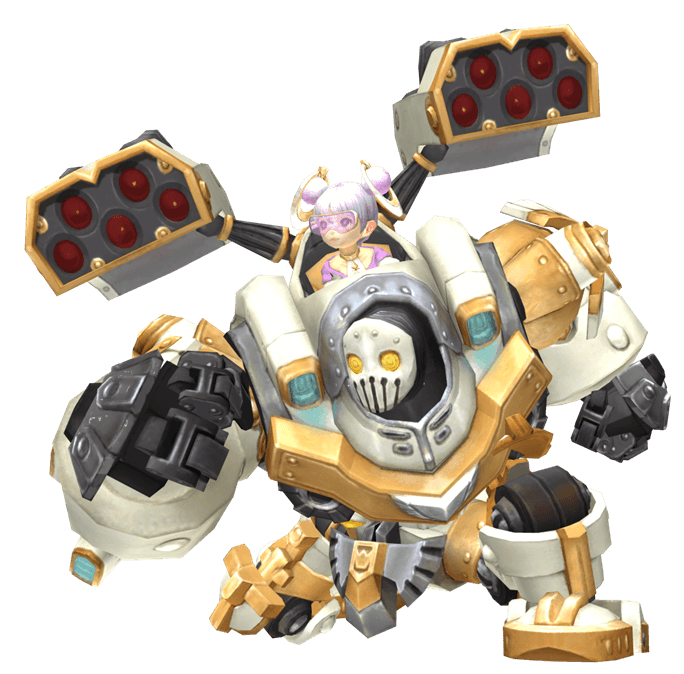
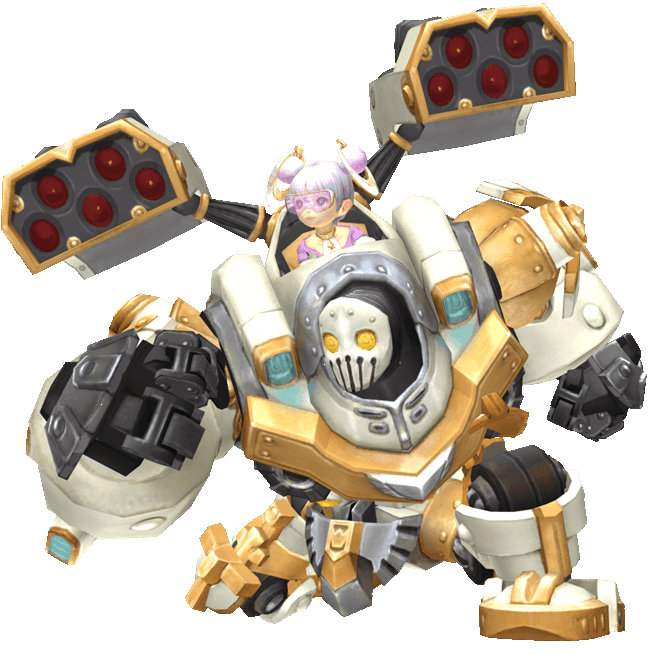
fix to header and front image

diff --git a/public/js/templates.min.js b/public/js/templates.min.js
@@ -1,10 +1,10 @@
 angular.module('templates').run(['$templateCache', function($templateCache) {$templateCache.put('ui/build/create.html','<dnsim-loading>\n    <dnsim-choose-class job="ctrl.job" on-set-job="ctrl.setJob()"></dnsim-choose-class>\n</dnsim-loading>');
 $templateCache.put('ui/build/view-build.html','  <div class="col-xs-11 col-sm-3 col-lg-2" ng-if="ctrl.build">\n    <div class="row chunkyness" style="color: rgb(233,231,224);font-size:15.6px;width:190px;height:160px">\n       <div class="col-xs-3" style="border:0.5px dotted" ng-repeat="num in ctrl.baseSkillNums track by $index">\n         <span ng-if="!(num > 0)">&nbsp;</span>{{num}}\n        </div>\n    </div>\n    <br />\n  </div>\n  <div class="col-xs-1">&nbsp;</div>\n  <div class="col-xs-11 col-sm-3 col-lg-2" ng-if="ctrl.build">\n    <div class="row chunkyness" style="color: rgb(233,231,224);font-size:15.6px;width:190px;height:160px">\n       <div class="col-xs-3" style="border:0.5px dotted" ng-repeat="num in ctrl.specSkillNums track by $index">\n         <span ng-if="!(num > 0)">&nbsp;</span>{{num}}\n        </div>\n    </div>\n    <br />\n  </div>\n  <div class="col-xs-11 col-lg-1">&nbsp;</div>\n  <div class="col-xs-11 col-sm-3 col-lg-2" ng-if="ctrl.build">\n    <div class="row chunkyness" style="color: rgb(233,231,224);font-size:15.6px;width:190px;height:160px">\n       <div class="col-xs-3" style="border:0.5px dotted" ng-repeat="num in ctrl.finalSkillNums track by $index">\n         <span ng-if="!(num > 0)">&nbsp;</span>{{num}}\n        </div>\n    </div>\n  </div>\n  <div class="col-xs-12 col-sm-1">&nbsp;</div>\n  <div class="col-xs-11 col-sm-3 col-lg-2" ng-if="ctrl.build">\n    <div class="row chunkyness" style="color: rgb(233,231,224);font-size:15.6px;width:190px;height:160px">\n       <div class="col-xs-3" style="border:0.5px dotted" ng-repeat="num in ctrl.awakenSkillNums track by $index">\n         <span ng-if="!(num > 0)">&nbsp;</span>{{num}}\n        </div>\n    </div>\n  </div>');
-$templateCache.put('ui/home/home.html','<div class="col-md-12"><div class="panel-body text-left">\n\n<h1>dragon nest skill simulator</h1>\n<p>\n  This is a multi-region skill simulator for the game Dragon Nest.\n</p>\n<p>\n  Use the toggles in the top right to change regions.\n</p>\n\n<div style="background: url(//spacem.github.io/dnskillsim/public/images/ray_mechanic.png) no-repeat top; height: 100vh; width: 100%; background-size:cover">\n\n</div></div>');
+$templateCache.put('ui/home/home.html','<div class="panel-body text-left">\n\n<h1>dragon nest skill simulator</h1>\n<p>\n  This is a multi-region skill simulator for the game Dragon Nest.\n</p>\n<p>\n  Use the toggles in the top right to change regions.\n</p>\n\n<div style="background: url(//spacem.github.io/dnskillsim/public/images/ray_mechanic.png) no-repeat left top; height: 100vh; width: 100vw; background-size:contain;margin:-30px">\n\n</div>\n</div>');
 $templateCache.put('ui/menus/build-menu.html','<ul class="nav nav-tabs">\n    <li class="nav-tab">\n        <a href="//spacem.github.io/dnskillsim/create?region={{ctrl.getRegion()}}">\n        <span class="glyphicon glyphicon-retweet" aria-hidden="true">\n        </span>\n        &nbsp; change class\n        </a>\n    </li>\n    <li class="nav-tab">\n        <a href="//spacem.github.io/dnskillsim/build-search?region={{ctrl.getRegion()}}">\n        <span class="glyphicon glyphicon-search" aria-hidden="true">\n        </span>\n        &nbsp;find skill builds\n        </a>\n    </li>\n    <li class="nav-tab">\n        <a ng-click="ctrl.publishBuild()" href="#">\n        <span class="glyphicon glyphicon-log-in" aria-hidden="true">\n        </span>\n        &nbsp;publish this build\n        </a>\n    </li>\n</ul>');
 $templateCache.put('ui/menus/home-menu.html','<ul class="nav nav-tabs">\n    <li class="nav-tab">\n        <a ng-href="create">\n        <span class="glyphicon glyphicon-retweet" aria-hidden="true">\n        </span>\n        &nbsp; create build\n        </a>\n    </li>\n    <li class="nav-tab">\n        <a ng-href="build-search">\n        <span class="glyphicon glyphicon-search" aria-hidden="true">\n        </span>\n        &nbsp;find skill builds\n        </a>\n    </li>\n    <li class="nav-tab">\n        <a ng-href="publish">\n        <span class="glyphicon glyphicon-log-in" aria-hidden="true">\n        </span>\n        &nbsp;manage published builds\n        </a>\n    </li>\n</ul>');
 $templateCache.put('ui/menus/legacy-menu.html','<ul class="nav nav-tabs">\n    <li class="nav-tab">\n        <a href="//spacem.github.io/dnskillsim/create?region={{ctrl.getRegion()}}">\n        <span class="glyphicon glyphicon-retweet" aria-hidden="true">\n        </span>\n        &nbsp; create build\n        </a>\n    </li>\n    <li class="nav-tab">\n        <a href="//spacem.github.io/dnskillsim/build-search?region={{ctrl.getRegion()}}">\n        <span class="glyphicon glyphicon-search" aria-hidden="true">\n        </span>\n        &nbsp;find skill builds\n        </a>\n    </li>\n    <li class="nav-tab">\n        <a href="//spacem.github.io/dnskillsim/publish">\n        <span class="glyphicon glyphicon-log-in" aria-hidden="true">\n        </span>\n        &nbsp;manage published builds\n        </a>\n    </li>\n</ul>\n');
-$templateCache.put('ui/nav/header.html','<header>\n  <div class="container-fluid chunkyness" id="head">\n    <div class="container">\n      <a href="https://spacem.github.io/dnskillsim"><span class="logo-image">&nbsp;</span></a>\n    <div class="toggle-box row">\n      <div class="col-xs-12">\n        <h3 class="header-title text-right">\n          <small class="hidden-xs">\n            &nbsp;\n            dragon nest skill simulator\n            &nbsp;\n          </small>\n          <dngearsim-region ng-controller="RegionCtrl as ctrl">\n          </dngearsim-region>\n        </h3>\n        </div>\n    </div></div>\n</div>\n</header>');
+$templateCache.put('ui/nav/header.html','<header>\n  <div class="container-fluid chunkyness" id="head">\n    <div class="container">\n    <a href="https://spacem.github.io/dnskillsim"><span class="logo-image">&nbsp;</span></a>\n    <div class="toggle-box row">\n      <div class="col-xs-12">\n        <div class="header-title text-right">\n          <h1 class="hidden-xs header-title">\n            &nbsp;\n            dragon nest skill simulator\n            &nbsp;\n          </h1>\n          <dngearsim-region ng-controller="RegionCtrl as ctrl">\n          </dngearsim-region>\n        </div>\n      </div>\n    </div>\n  </div>\n</div>\n</header>');
 $templateCache.put('ui/online/build-search.html','<dnsim-loading>\n<dnsim-choose-class ng-show="!ctrl.job" job="ctrl.job" on-set-job="ctrl.setJob()"></dnsim-choose-class>\n\n<h3 ng-if="ctrl.job">{{ctrl.job.name}} builds\n  <small>\n    <button class="btn btn-link" ng-click="ctrl.job = null">\n      &raquo;change class\n    </button>\n  </small>\n</h3>\n<span ng-if="ctrl.job && !ctrl.jobBuilds">loading..</span>\n\n<p ng-if="ctrl.job && ctrl.jobBuilds">\n<label>filter</label>\n<input class="form-control" ng-model="ctrl.filter"></input>\n</p>\n\n<div class="container-fluid" ng-if="ctrl.job && ctrl.jobBuilds">\n  <div class="row" infinite-scroll="ctrl.showMoreResults()">\n    <div class="col-xs-12 col-md-6" ng-repeat="build in ctrl.getFilteredBuilds() track by $index">\n    <a class="list-group-item" ng-href="published/?uid={{build.uid}}&buildName={{build.name | escape}}">\n      <div>\n      <h4>\n        {{build.name}}\n        <small>\n          <span ng-if="build.data.guild">\n            [{{build.data.guild}}]\n          </span>\n          {{build.data.region}}\n        </small>\n      </h4>\n      <em>\n      {{build.data.about}}\n      </em>\n      </div>\n    </a>\n    </div>\n  </div>\n</div>\n<div class="row" ng-show="ctrl.totalNumResults >= ctrl.maxDisplay">\n  <div class="col-xs-1"></div>\n  <div class="col-xs-11">\n    <button class="btn btn-link" ng-click="ctrl.showMoreResults(20)">show more</button> | \n    <button class="btn btn-link" ng-click="ctrl.showMoreResults(200)">show lots more</button>\n  </div>\n</div>\n</dnsim-loading>');
 $templateCache.put('ui/online/profile.html','<dnsim-loading>\n  <div class="row">\n    <div class="col-xs-12" ng-if="ctrl.profile">\n      <h3>viewing builds for:<small> {{ctrl.profile.name || \'unnamed user\'}}</small>\n      </h3>\n      <p>{{ctrl.profile.about}}</p>\n    </div>\n    <div class="col-xs-12" ng-if="!ctrl.profile || !ctrl.storedBuilds">\n      loading...\n    </div>\n    \n    <div class="col-xs-12" ng-if="ctrl.storedBuilds" ng-repeat="(buildName, build) in ctrl.storedBuilds">\n      <a class="btn btn-link btn-block group-header-btn" ng-href="{{ctrl.getBuildLink(ctrl.storedBuilds[buildName])}}">\n        <h3 class="text-left">\n          <dnsim-job-icon item="ctrl.getJob(ctrl.storedBuilds[buildName])"></dnsim-job-icon>\n          {{buildName}} \n          <span ng-if="ctrl.storedBuilds[buildName].guild">[{{ctrl.storedBuilds[buildName].guild}}]</span>\n          <small>\n            <span ng-if="ctrl.storedBuilds[buildName].region">in {{ctrl.storedBuilds[buildName].region}}</span>\n            <span ng-if="ctrl.storedBuilds[buildName].about">\n              <br />\n              <em>\n                {{ctrl.storedBuilds[buildName].about}}\n              </em>\n            </span>\n            <br />\n          </small>\n        </h3>\n        \n      </a>\n    </div>\n  </div>\n  \n</dnsim-loading>');
 $templateCache.put('ui/online/publish.html','<dnsim-loading>\n\n<div class="row" ng-if="!ctrl.getUser()">\n  <div class="col-xs-12">\n    <br />\n    authenticating with firebase...\n  </div>\n</div>\n<div class="row" ng-if="ctrl.getUser()">\n  <div class="col-xs-12">\n    <h4>Logged In</h4>\n    Welcome {{ctrl.getUser().displayName || ctrl.getUser().email}}\n    <br /><br />\n  </div>\n  <div class="col-xs-12">\n    <button class="btn btn-link" ng-disabled="ctrl.show == \'profile\' || !ctrl.show" ng-click="ctrl.show = \'profile\'">publish</button> |\n    <button class="btn btn-link" ng-disabled="ctrl.show == \'delete\'" ng-click="ctrl.show = \'delete\'">delete account</button> |\n    <button class="btn btn-link" ng-click="ctrl.signOut()">log out</button>\n    <br /><br />\n  </div>\n  \n  <div class="col-xs-12" ng-if="ctrl.show == \'delete\'">\n    <br />\n    <button class="btn btn-default" ng-click="ctrl.deleteAccount()">really delete?<br />all data will be lost<br />in both gear and skill sims<br />click to proceed</button>\n    <br /><br />\n  </div>\n      \n  <div class="col-xs-6" ng-if="!ctrl.profile && (!ctrl.show || ctrl.show == \'profile\')">\n    loading...\n  </div>\n  \n  <div class="col-xs-12 form-group" ng-if="ctrl.profile && (!ctrl.show || ctrl.show == \'profile\')">\n    <label>profile name</label><br />\n    <input ng-model="ctrl.profile.name"></input>\n    <br />\n    <em>players will be able to view all builds you published from your profile page</em>\n    <br /><br />\n    <label>about you</label>\n    <textarea ng-model="ctrl.profile.about" class="form-control" rows="4"></textarea>\n    <br />\n    <button ng-disabled="!ctrl.profile.name" ng-click="ctrl.saveProfile()" class="btn btn-default">save profile</button>\n    \n    <a class="btn btn-link" ng-href="profile/?uid={{ctrl.getUser().uid}}">&raquo;view profile page</a>\n    <br />\n\n    <div class="row">\n      <div class="col-xs-6" ng-if="!ctrl.storedBuilds">\n        loading...\n      </div>\n    </div>\n    \n    <div class="row">\n      <div class="col-xs-12" ng-if="ctrl.build">\n        <br />\n        <br />\n        <br />\n        <label>build to publish</label>\n        <br />\n        <a ng-href="{{ctrl.getBuildLink(ctrl.build)}}">&raquo;view build in simulator</a>\n        \n        <h3>\n        <dnsim-job-icon item="ctrl.getJob(ctrl.build)">\n        </dnsim-job-icon>\n        <small>\n        Level 93 {{ctrl.build.region}} {{ctrl.getBuildJobName(ctrl.build)}}\n        </small>\n        </h3>\n        <br />\n        <dnsim-view-build build="ctrl.build" ng-if="ctrl.build"></dnsim-view-build>\n\n        <div class="row form-group">\n          <div class="col-xs-12 col-sm-8">\n            <label>build/character name (ign)</label><br />\n            <input ng-model="ctrl.build.name" class="form-control"></input>\n          </div>\n          <div class="col-xs-12 col-sm-4">\n            <label>guild</label><br />\n            <input ng-model="ctrl.build.guild" class="form-control"></input>\n          </div>\n          <div class="col-xs-12">\n            <br />\n            <label>about the build</label>\n            <textarea ng-model="ctrl.build.about" class="form-control" rows="4"></textarea>\n          </div>\n          <div class="col-xs-12 text-right">\n            <br />\n            <button ng-disabled="!ctrl.build.name" class="btn btn-default" ng-click="ctrl.save()">publish</button>\n          </div>\n        </div>\n      </div>\n      \n\n      <div class="col-xs-12" ng-if="ctrl.storedBuilds">\n        <h4>published builds ({{ctrl.getNumStoredBuilds()}} / {{ctrl.getBuildLimit()}})</h4>\n      </div>\n      \n      <div class="col-xs-12" ng-repeat="buildName in ctrl.getAllBuildNames()">\n\n        <a class="btn btn-link btn-block group-header-btn" ng-href="{{ctrl.getBuildLink(ctrl.storedBuilds[buildName])}}">\n\n          <h3 class="text-left">\n            <dnsim-job-icon item="ctrl.getJob(ctrl.build)">\n            </dnsim-job-icon>\n            {{buildName}} <span ng-if="ctrl.storedBuilds[buildName].guild">[{{ctrl.storedBuilds[buildName].guild}}]</span>\n            <small><br />\n            {{ctrl.getBuildJobName(ctrl.storedBuilds[buildName])}}</small>\n          </h3>\n        </a>\n        <p>\n          region: {{ctrl.storedBuilds[buildName].region}}<br />\n          <em style="white-space:pre-wrap;">{{ctrl.storedBuilds[buildName].about}}</em>\n        </p>\n        <button ng-hide="ctrl.serverToDelete == buildName" class="btn btn-default" ng-click="ctrl.deleteServer(buildName)">delete</button>\n        <button class="btn btn-default" ng-if="ctrl.serverToDelete == buildName" ng-click="ctrl.reallyDeleteServer(buildName)">press to actually delete</button>\n        <button class="btn btn-default" ng-if="ctrl.serverToDelete == buildName" ng-click="ctrl.deleteServer(\'\')">cancel delete</button>\n      </div>\n    </div>\n    \n  </div>\n</div>\n\n</dnsim-loading>');

diff --git a/ui/nav/header.html b/ui/nav/header.html
@@ -1,19 +1,20 @@
 <header>
   <div class="container-fluid chunkyness" id="head">
     <div class="container">
-      <a href="https://spacem.github.io/dnskillsim"><span class="logo-image">&nbsp;</span></a>
+    <a href="https://spacem.github.io/dnskillsim"><span class="logo-image">&nbsp;</span></a>
     <div class="toggle-box row">
       <div class="col-xs-12">
-        <h3 class="header-title text-right">
-          <small class="hidden-xs">
+        <div class="header-title text-right">
+          <h1 class="hidden-xs header-title">
             &nbsp;
             dragon nest skill simulator
             &nbsp;
-          </small>
+          </h1>
           <dngearsim-region ng-controller="RegionCtrl as ctrl">
           </dngearsim-region>
-        </h3>
         </div>
-    </div></div>
+      </div>
+    </div>
+  </div>
 </div>
 </header>

diff --git a/ui/home/home.html b/ui/home/home.html
@@ -1,4 +1,4 @@
-<div class="col-md-12"><div class="panel-body text-left">
+<div class="panel-body text-left">
 
 <h1>dragon nest skill simulator</h1>
 <p>
@@ -8,6 +8,7 @@
   Use the toggles in the top right to change regions.
 </p>
 
-<div style="background: url(//spacem.github.io/dnskillsim/public/images/ray_mechanic.png) no-repeat top; height: 100vh; width: 100%; background-size:cover">
+<div style="background: url(//spacem.github.io/dnskillsim/public/images/ray_mechanic.png) no-repeat left top; height: 100vh; width: 100vw; background-size:contain;margin:-30px">
 
-</div></div>
+</div>
+</div>
